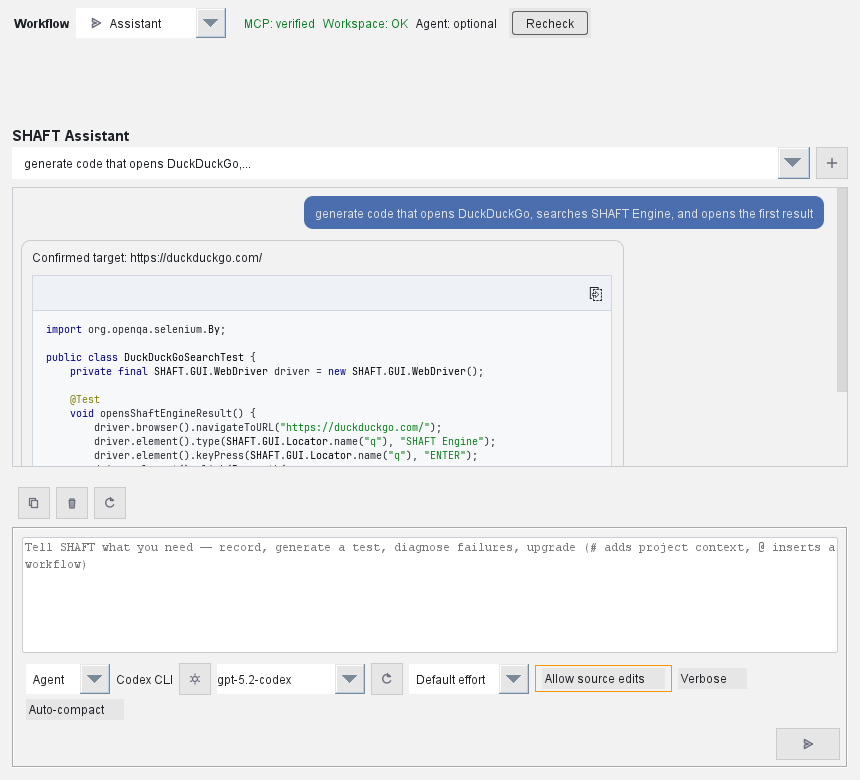
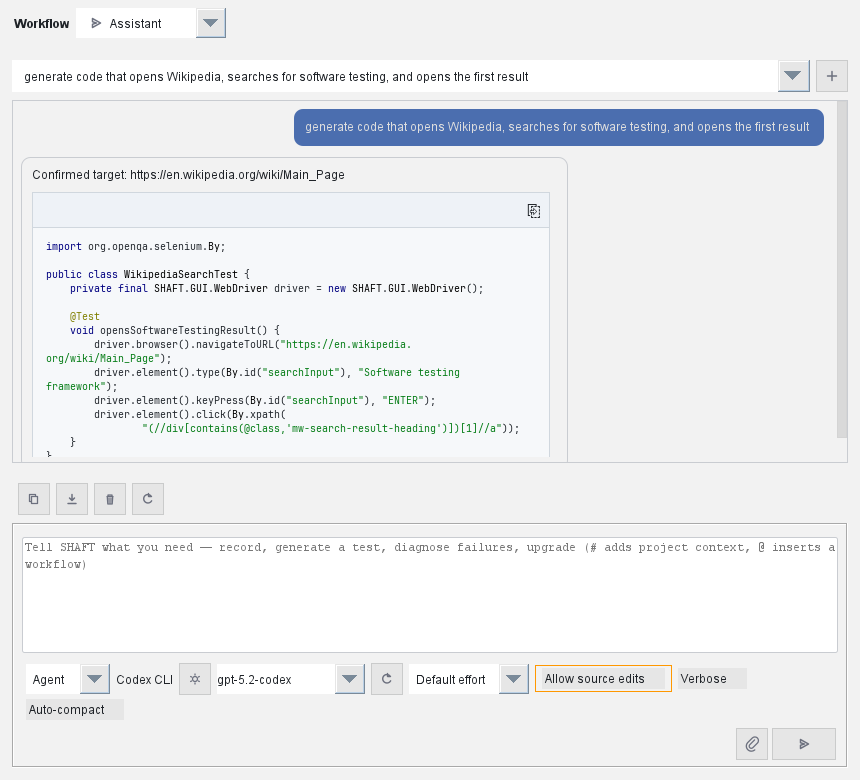
Refresh stale Assistant composer and Guided-workflow screenshots
The Assistant composer screenshot predated the download button the
composer's action row gained, and the Guided-workflow screenshot lacked
the Browser/Headless fields and the Recorded-steps list the panel now
shows. Re-render both from current-UI captures and update alt text to
the descriptive convention established in #834.

Closes #835

Claude-Session: https://claude.ai/code/session_011YHoYVC5KYCDMmGtwLsEHk

diff --git a/docs/agentic/intellij.md b/docs/agentic/intellij.md
@@ -554,7 +554,7 @@ findings (flaky steps, unsupported events, required inputs, fallback
 locators) also surface as file-level IDE annotations directly on the
 generated class.
 
-![SHAFT IntelliJ Assistant chat composer](/img/agentic/intellij-plugin-assistant.png)
+![SHAFT IntelliJ Assistant chat composer showing a generated WikipediaSearchTest class under Confirmed target: https://en.wikipedia.org/wiki/Main_Page, with copy, download, delete, and rerun buttons above the prompt box](/img/agentic/intellij-plugin-assistant.png)
 
 ![SHAFT IntelliJ Assistant empty composer](/img/agentic/intellij-plugin-assistant-empty.png)
 
@@ -702,7 +702,7 @@ against the last run's target class first, and on a mismatch offers a
 "Run `<Class>`" notification action instead of silently replaying a stale
 result ([ShaftHQ/SHAFT_ENGINE#3467](https://github.com/ShaftHQ/SHAFT_ENGINE/issues/3467)).
 
-![SHAFT IntelliJ Guided workflow templates](/img/agentic/intellij-plugin-guided.png)
+![SHAFT IntelliJ Guided workflow panel showing Target URL, a Browser dropdown set to Chrome, a Headless browser checkbox, Advanced options (Backend, Template, Intent, Session path), and an empty Recorded steps list reading Nothing to show](/img/agentic/intellij-plugin-guided.png)
 
 ```json
 {"tool": "shaft_project_upgrade", "arguments": {"projectRoot": ".", "upgradeType": "basic", "dryRun": true, "approve": false}}